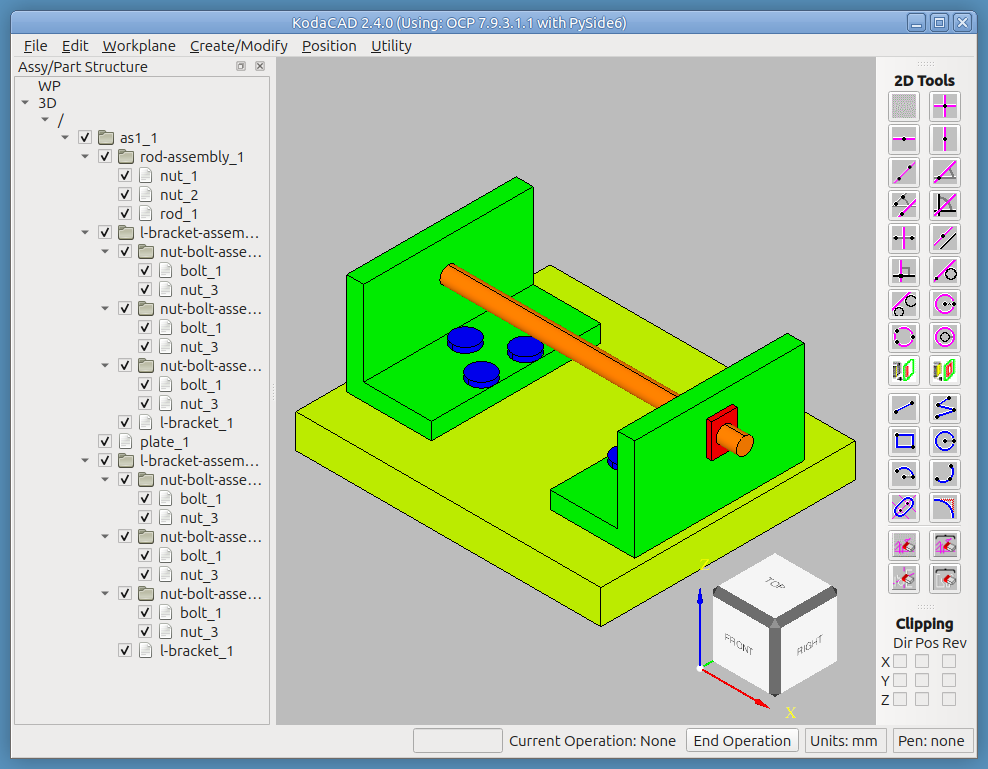
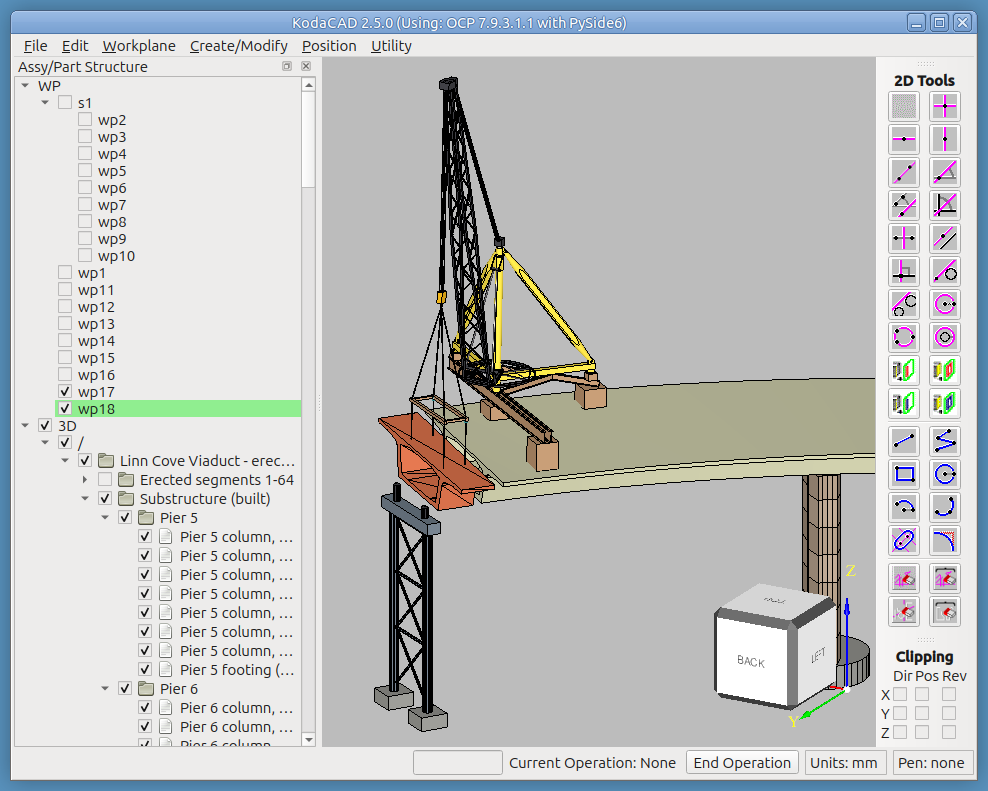
Release 2.5.0

diff --git a/version.py b/version.py
@@ -1,5 +1,38 @@
 """Single source of truth for the KodaCAD application version.
 
+2.5.0 -- 2026-11-21 (Sessions 176-181)
+* Built for the Linn Cove Viaduct model (one lofted deck through a
+  workplane every few segments), which also drove most of the rest:
+  - Project Edge / Project Face Edges AS GEOMETRY: two new 2D buttons
+    that put the projected edges on a workplane as profile geometry
+    (lines, circles, arcs), not just construction lines, with no
+    doubled edges. Profile edges that miss by up to 1e-4 are now
+    joined, so faces from imported STEP parts (stitched at ~3e-5) close.
+  - Make Workplane Set: select existing workplanes in the tree,
+    right-click -> a Workplane Set holding them in creation order.
+  - Loft makes HOLLOW sections: every workplane may carry holes (same
+    number on each); they are lofted and cut out.
+  - Making another workplane active ends the current 2D operation.
+* Create Array (tree right-click): Linear and Angular arrays of a part
+  or assembly, a Frame (World / Workplane / Pick) for the axis, a live
+  ghost preview and an RGB triad showing the axis.
+* Position: Frame = Pick (a gizmo on a picked cylinder, edge or flat
+  face).
+* View: MMB drag in the outer ring of the viewport spins the view about
+  the screen normal; Utility -> Level View (Z up); the View Cube changes
+  direction only (no fit) and RMB click is Fit.
+* Booleans run in a supervised worker (Boolean dialog): a Working box
+  with Cancel, a time limit and a memory limit, so a runaway Boolean
+  (equal-diameter round parts with crossing axes) is stopped instead of
+  freezing the computer. Pull and the Loft cut / fuse follow.
+* Dialogs in the new minimal style: Boolean, Pull, Defeaturing, Move
+  Face, Position, Shell, Color Faces, Create Array; the RPN calculator
+  can fill a dialog's numeric field. Workplanes can be named and are
+  numbered sequentially; an open profile marks where it is open.
+* Docs: tutorials/as1-oc-214/KNOWN_ISSUES.md explains why that test
+  assembly (all spline surfaces, loosely stitched) is a poor benchmark
+  for Defeaturing, Move Face, Shell and fillets.
+
 2.4.0 -- 2026-11-06 (Sessions 171-175)
 * Utility -> Animate Mechanism...: move the parts of an assembly with a
   slider to see how a mechanism works, park it in any pose, and trace
@@ -100,4 +133,4 @@ save/reload analytic-selection pick fix, naming round-trips, STEP
 header customization.
 """
 
-APP_VERSION = "2.4.0"
+APP_VERSION = "2.5.0"

diff --git a/docs/DEVELOPMENT_LOG.md b/docs/DEVELOPMENT_LOG.md
@@ -7677,3 +7677,5 @@ Doug built the American S-20 crane and took twelve unordered notes. Agreed first
 - `supervise(cmd, timeout, mem_limit, cancelled, tick, ...)` is the pure subprocess part (no Qt / OCP). Offline tests (scratchpad): ok, non-zero exit -> 'crashed' (rc kept), sleep -> 'timeout' in 0.5 s, cancel after 3 ticks -> 'cancelled', a process allocating 20 MB / 20 ms against a 200 MB limit -> 'memory' within seconds; `run_boolean` with OCP stubbed and a fake worker: success, failed Boolean, crash, hang.
 - Wired in: boolean_dialog.py (Fuse and Subtract, one worker call per tool). Not yet: pull_dialog.py (3 call sites), kodacad.py (hollow-loft cut, loft fuse), face_offset.py's extrusion fallback -- next small commits, then Common if a command uses it. Untested with real OCP; BREP round trip assumed to keep shape locations (check: a Fuse / Subtract of a MOVED part lands where it should).
 - Fix after the first run (Doug, Nov 20): the worker died with `AttributeError: 'BRepAlgoAPI_Fuse' object has no attribute 'HasErrors'` -- I had assumed that method exists in OCP's wrapper and never checked it; the offline stubs could not catch it. The worker now reads it inside try/except (informational only); success is `IsDone()` plus a non-null result, as the old in-process code judged it. Lesson: an OCP method name used for the first time must be confirmed on the real OCP (a probe or `dir()`), not assumed from the C++ docs.
+- First real run (Doug): fuse worked as before; no Working box because the Boolean took < 0.5 s (the box shows only after that). The several seconds he saw were `draw_shape` of the fused compound ('_needs_analytic_workaround=True elapsed=19.46s'), the redraw after the Boolean, outside the guard rails -- a separate slowness to look at later. Test hook added to boolean_worker.py: environment variable KODACAD_BOOLEAN_TEST_SLEEP=<seconds> delays every Boolean, so the busy box, Cancel and the time limit can be tried without a genuinely slow Boolean (e.g. `KODACAD_BOOLEAN_TEST_SLEEP=8 uv run python kodacad.py`).
+
